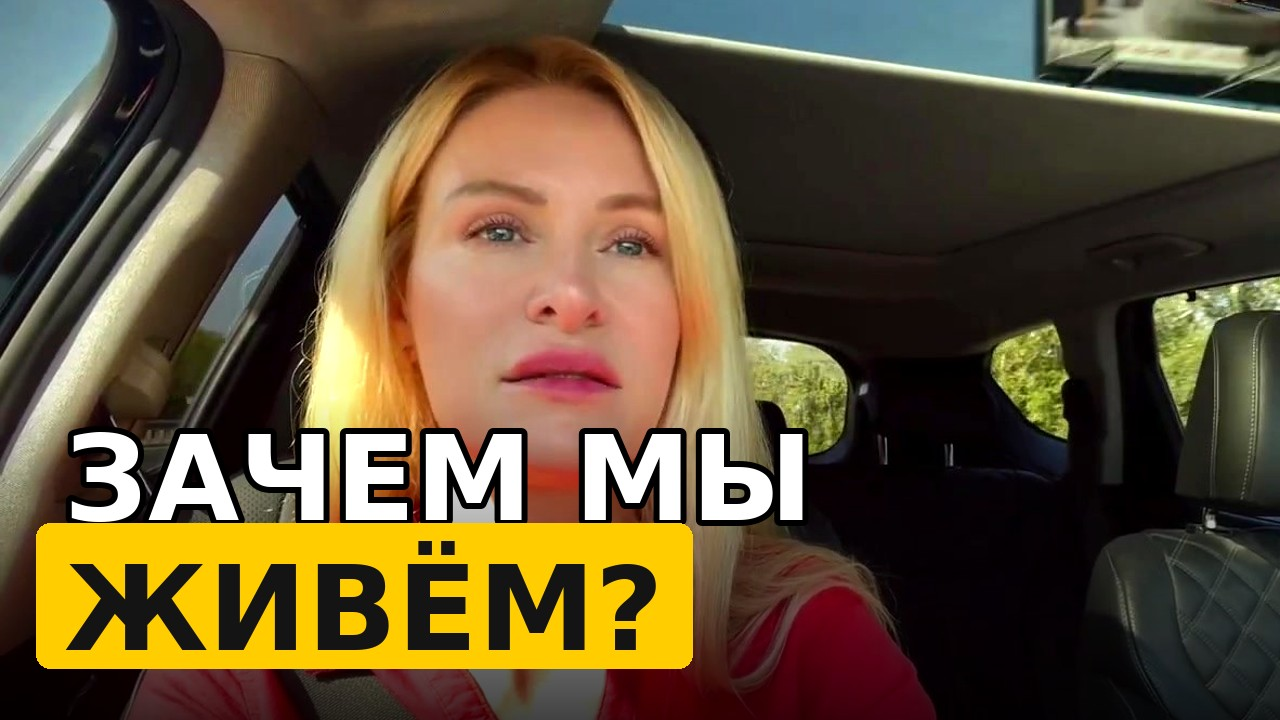
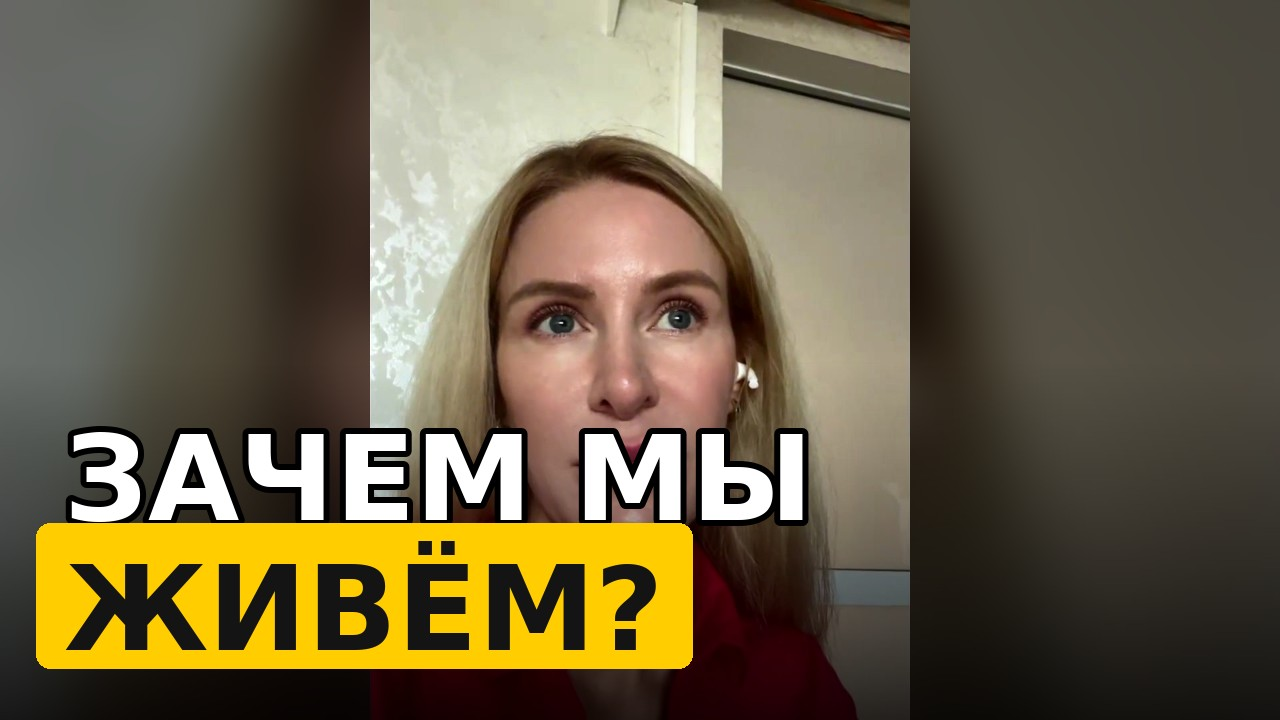
обложки: горизонтальная сборка из вертикального селфи-кадра (взгляд в объектив), фон-размытие без чёрных полос

diff --git a/scripts/video_covers.py b/scripts/video_covers.py
@@ -17,7 +17,7 @@ import os
 import subprocess
 import sys
 
-from PIL import Image, ImageDraw, ImageEnhance, ImageFont
+from PIL import Image, ImageDraw, ImageEnhance, ImageFilter, ImageFont
 
 try:
     import numpy as np
@@ -182,8 +182,7 @@ def fit_font(text, max_w, start=118):
     return ImageFont.truetype(FONT_PATH, 46)
 
 
-def draw_cover(frame, lines, face_frac, fx, fy, out, face_out=FACE_OUT):
-    im = load_bg(frame, fx, fy, face_frac, face_out)
+def _draw_text(im, lines):
     d = ImageDraw.Draw(im)
     margin = 64
     max_w = W - margin * 2
@@ -205,8 +204,57 @@ def draw_cover(frame, lines, face_frac, fx, fy, out, face_out=FACE_OUT):
             d.text((x, y), t, font=font, fill=(255, 255, 255),
                    stroke_width=6, stroke_fill=(0, 0, 0))
         y += hh + gap
+
+
+def draw_cover(frame, lines, face_frac, fx, fy, out, face_out=FACE_OUT):
+    im = load_bg(frame, fx, fy, face_frac, face_out)
+    _draw_text(im, lines)
     im.save(out, quality=90)
     print("обложка:", out)
+
+
+def content_box(im):
+    """Границы неполосатого (не чёрного) содержимого по горизонтали."""
+    if np is None:
+        return 0, im.width
+    a = np.asarray(im.convert("L"), dtype="float64")
+    colmean = a.mean(axis=0)
+    cols = np.where(colmean > 18)[0]
+    if len(cols) == 0:
+        return 0, im.width
+    return int(cols[0]), int(cols[-1]) + 1
+
+
+def draw_portrait_cover(frame, lines, out):
+    """Обложка из ВЕРТИКАЛЬНОГО кадра (селфи): лицо по центру, фон — размытие,
+    без чёрных полей. Для кадров «снимаю себя» со взглядом в объектив."""
+    im = Image.open(frame).convert("RGB")
+    x0, x1 = content_box(im)
+    portrait = im.crop((x0, 0, x1, im.height))
+    pw, ph = portrait.size
+    # фон: заполнить весь кадр размытой версией (без полей)
+    scale = max(W / pw, H / ph)
+    bw, bh = int(pw * scale), int(ph * scale)
+    bg = portrait.resize((bw, bh))
+    bx, by = (bw - W) // 2, (bh - H) // 2
+    bg = bg.crop((bx, by, bx + W, by + H)).filter(ImageFilter.GaussianBlur(28))
+    bg = ImageEnhance.Brightness(bg).enhance(0.5)
+    # передний план: портрет во всю высоту, по центру
+    fw = int(pw * (H / ph))
+    fg = portrait.resize((fw, H))
+    fg = ImageEnhance.Brightness(fg).enhance(1.06)
+    fg = ImageEnhance.Contrast(fg).enhance(1.04)
+    canvas = bg.copy()
+    canvas.paste(fg, ((W - fw) // 2, 0))
+    # затемнение снизу под текст
+    grad = Image.new("L", (1, H), 0)
+    for yy in range(H):
+        t = max(0.0, (yy - H * 0.5) / (H * 0.5))
+        grad.putpixel((0, yy), int(200 * t))
+    canvas = Image.composite(Image.new("RGB", (W, H), (0, 0, 0)), canvas, grad.resize((W, H)))
+    _draw_text(canvas, lines)
+    canvas.save(out, quality=90)
+    print("обложка (портрет):", out)
 
 
 def make_covers(picks_path):
@@ -215,10 +263,13 @@ def make_covers(picks_path):
     out = os.path.dirname(picks_path)
     for i, item in enumerate(spec["covers"], 1):
         lines = [(t, s) for t, s in item["lines"]]
-        draw_cover(item["frame"], lines, item.get("face_frac", 0.22),
-                   item.get("fx", 0.5), item.get("fy", 0.42),
-                   os.path.join(out, f"cover_{i}.jpg"),
-                   item.get("face_out", FACE_OUT))
+        dst = os.path.join(out, f"cover_{i}.jpg")
+        if item.get("portrait"):
+            draw_portrait_cover(item["frame"], lines, dst)
+        else:
+            draw_cover(item["frame"], lines, item.get("face_frac", 0.22),
+                       item.get("fx", 0.5), item.get("fy", 0.42), dst,
+                       item.get("face_out", FACE_OUT))
 
 
 def main():
